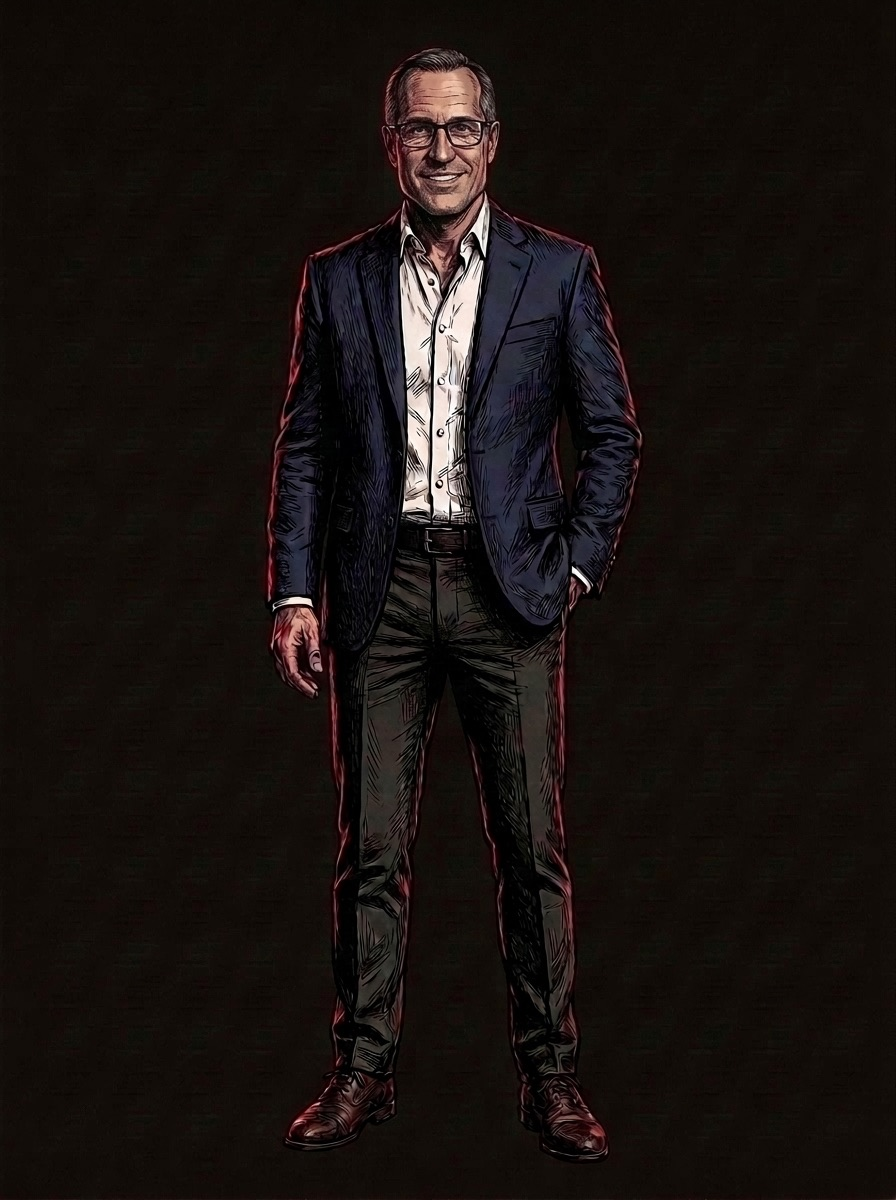
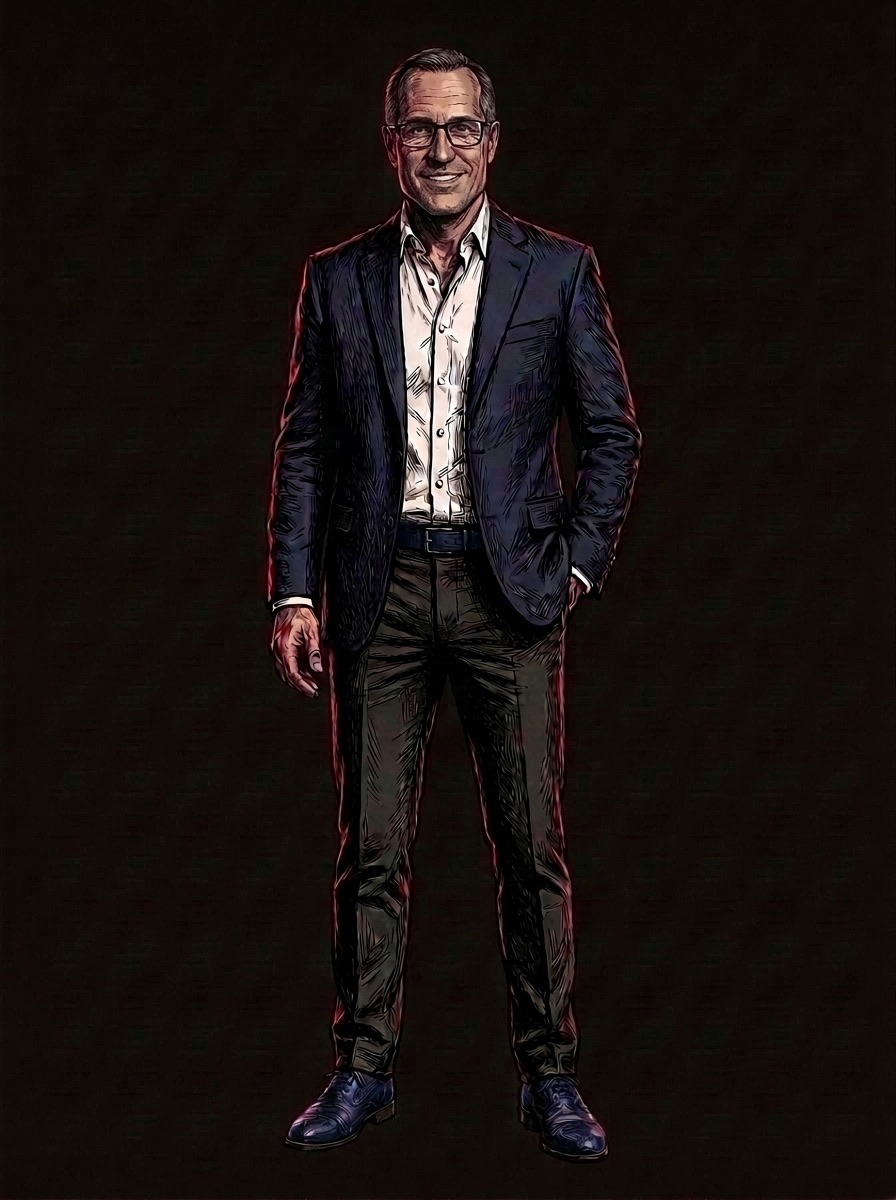
agents: Pflash buttoned (belt hidden); Atlas navy dress shoes and belt

diff --git a/assets/stage.js b/assets/stage.js
@@ -286,7 +286,7 @@
     pflash: ['000'],   /* Dan 10/16: no spinning; straight on. The other seven frames stay in assets/turn/pflash/ if ever wanted. */
     atlas: ['000']   /* one frame so far, so it stands still (and no 404s in the console); add '045' ... as the frames arrive in assets/turn/atlas/ */
   };
-  var FRAME_VER = '20261016-11';   /* bump whenever a frame image is replaced, so browsers refetch it */
+  var FRAME_VER = '20261016-12';   /* bump whenever a frame image is replaced, so browsers refetch it */
   function frameUrls(dir){ return TURN[dir].map(function(a){ return 'assets/turn/' + dir + '/' + a + '.jpg?v=' + FRAME_VER; }); }
   /* mount a turnaround in `fig` (needs a .pf-2d host and a .pf-disc inside it): o.dir, o.ready(handle), o.fail() */
   function mount2d(o){

diff --git a/agents.html b/agents.html
@@ -242,7 +242,7 @@
 </footer>
 
 <script src="assets/stage2d.js?v=1" defer></script>
-<script src="assets/stage.js?v=17" defer></script>
+<script src="assets/stage.js?v=18" defer></script>
 <script>
 /* Same submit behavior as index.html's #scanForm: validate lightly, then go to scan.html?addr=<value>. */
 document.getElementById('scanForm').addEventListener('submit', function(e){
